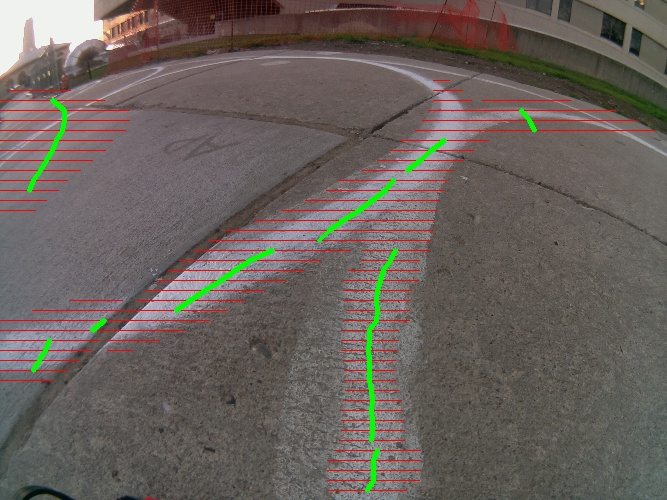
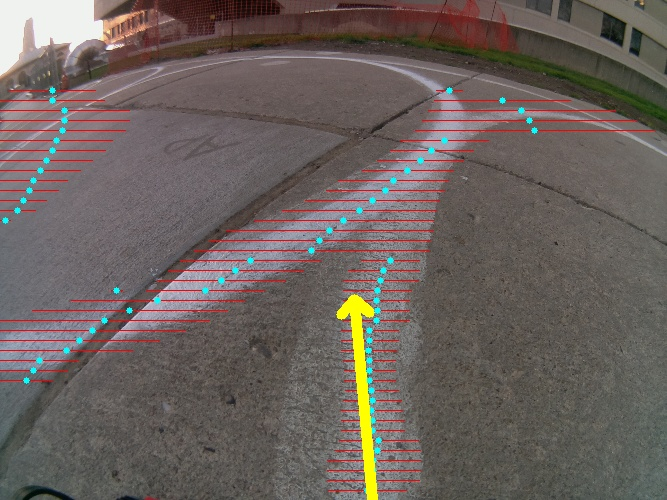
slow

diff --git a/line_detector.py b/line_detector.py
@@ -1,11 +1,15 @@
 import cv2
-from cv2 import blur
 import numpy as np
 from cv2_utils import *
 
 from skimage import filters
 
-WAYPOINTS = []
+# todo: find largest connected component on line graph
+# draw arrow
+# should we draw second line? if tip is below .5 height
+# can we draw second line? 
+# test angles in cone and see if we can fit at least 30% of remaining waypoint within 30 pix of line segment
+# from tip of that, draw second line if possible
 
 class RowLines():
     def __init__(self, r, c_rngs):
@@ -30,7 +34,6 @@ class RowLines():
                         curr_cntr = int(np.mean(c_rng))
                         prev_cntr = int(np.mean(prev_c_rng))
                         cv2.line(orig, (prev_cntr, prev_row_lines.r), (curr_cntr, self.r), (0, 255, 0), 3)
-                        WAYPOINTS.append((curr_cntr, self.r))
                         self.down_edges[i] = j
                         break
         print(self.c_rngs)
@@ -50,14 +53,20 @@ def draw_lines(orig, segmented, r):
         if segmented[r, c] == 255:
             length += 1
         else:
-            if 15 < length:
-                lines.append((line_start, c-1))
+            if 10 < length:
+                if lines and line_start - lines[-1][-1] < 20:
+                    lines[-1][-1] = c-1
+                else:
+                    lines.append([line_start, c-1])
             line_start = -1
             length = 0
+    print(r, lines)
     return lines
 
-img_idx = 11
+img_idx = 0
 while True:
+
+    WAYPOINTS = []
     fname = f'test/{img_idx}.jpg'
     print(fname)
     orig = cv2.imread(fname)
@@ -76,26 +85,11 @@ while True:
     crop = gray[-int(gray.shape[0]*.5):,:]
     thresh_val = np.percentile(crop, 90, axis=(0,1))
     print(thresh_val)
-
-    # sobel curves
-    blur_new = cv2.blur(gray, (5,5))
-    edges = cv2.Sobel(blur_new,cv2.CV_8U,1,0,ksize=5)
-    translation_matrix = np.float32([ [1,0,20], [0,1,0] ])
-    edges[edges < np.percentile(edges, 95)] = 0
-    edges[edges >= np.percentile(edges, 95)] = 255
-    cv2_view(edges=edges)
-    # shift right
-    edges[:,20:] = edges[:,:-20]
-    edges[:,:20] = 0
-    cv2_view(edges=edges)
-    edges = bin2gray(np.bitwise_and(blur_new > thresh_val, edges))
-    print('this is cool')
-    cv2_view(edges=edges)
     
     # globally segment lines generously
     val = filters.threshold_otsu(crop)
     _, thresh_init = cv2.threshold(gray,val-5,255,cv2.THRESH_BINARY)
-    gray[np.bitwise_and(thresh_init==0, edges==0)] = 0
+    gray[thresh_init==0] = 0
     cv2_view(thresh=thresh_init)
     cv2_view(blur=gray)
 
@@ -103,11 +97,11 @@ while True:
     print(np.std(gray), np.std(gray[thresh_init!=0]))
     val = filters.threshold_otsu(gray[thresh_init!=0])-10
     _, thresh_stray = cv2.threshold(gray,val,255,cv2.THRESH_BINARY)
-    gray[np.bitwise_and(thresh_stray==0, edges==0)] = 0
+    gray[thresh_stray==0] = 0
     cv2_view(thresh_stray=thresh_stray)
 
     # remove small segments
-    min_size = pix * pix / 250
+    min_size = 1000
     nb_components, output, stats, centroids = cv2.connectedComponentsWithStats(
         gray, connectivity=8
     )
@@ -121,8 +115,8 @@ while True:
     gray = cv2.blur(gray, (5, 25))
     gray[gray!=0] = 255
 
-    cv2_view(gray=gray)
     binary = gray
+    cv2_view(binary=binary)
     
     # find midpoints
 
@@ -134,19 +128,39 @@ while True:
     # partition points into sets with dist less than 50
 
     lines_by_row = []
-    for r in range(0, orig.shape[0], 10):
+    for r in range(0, orig.shape[0], 5):
         lines_by_row.append(RowLines(r, draw_lines(orig, binary, r)))
     cv2_view(final=orig)
 
-    for r in range(len(lines_by_row)):
-        lines_by_row[r].draw_lines(orig)
+    for line_by_row in lines_by_row:
+        for i in range(len(line_by_row.c_rngs)):
+            c_lo = line_by_row.c_rngs[i][0]
+            c_hi = line_by_row.c_rngs[i][1]
+            WAYPOINTS.append((int(np.mean([c_lo, c_hi])), line_by_row.r))
+            print(line_by_row.r, [int(np.mean([c_lo, c_hi])), line_by_row.r], line_by_row.c_rngs)
+            print(len(WAYPOINTS))
+        line_by_row.draw_lines(orig)
 
-    for r in range(1, len(lines_by_row)):
-        rp = len(lines_by_row)-r-1
-        lines_by_row[rp].draw_interrow_lines(orig, lines_by_row[rp+1])
+    print(len(WAYPOINTS))
+    # for r in range(1, len(lines_by_row)):
+    #     rp = len(lines_by_row)-r-1
+    #     lines_by_row[rp].draw_interrow_lines(orig, lines_by_row[rp+1])
 
-    for pt in WAYPOINTS:
+    for i in range(len(WAYPOINTS)):
+        pt = WAYPOINTS[i]
+        print(pt)
         cv2.circle(orig, (pt[0], pt[1]), 3, (255, 255, 0), -1)
+
+    robot_reference_row = int(orig.shape[0] * 7/8)
+    robot_traj_row = int(orig.shape[0] * 5/8)
+    bottom_4th = np.array([[c,r] for (c,r) in WAYPOINTS if r > orig.shape[0]*.75])
+    bottom_3_4ths = np.array([[c,r] for (c,r) in WAYPOINTS if orig.shape[0]*.5 < r < orig.shape[0]*.75])
+    robot_reference_col = np.mean(bottom_4th[:,0])
+    robot_traj_col = np.mean(bottom_3_4ths[:,0])
+
+    print(robot_reference_col, robot_reference_row)
+
+    cv2.arrowedLine(orig, (int(robot_reference_col), robot_reference_row), (int(robot_traj_col), robot_traj_row), (0, 255, 255), 10)
 
 
     # through away connected segments with fewer than 10 points

diff --git a/cv2_utils.py b/cv2_utils.py
@@ -65,8 +65,8 @@ def rescale(img, pix=500):
 def cv2_view(t=0, **kwargs):
     for name,img in kwargs.items():
         print(f'displaying {name}')
-        cv2.imshow('img', img)
-        cv2_wait(t)
+        # cv2.imshow('img', img)
+        # cv2_wait(t)
 
 def cv2_wait(t=0):
     key = cv2.waitKey(t) & 0xFF
